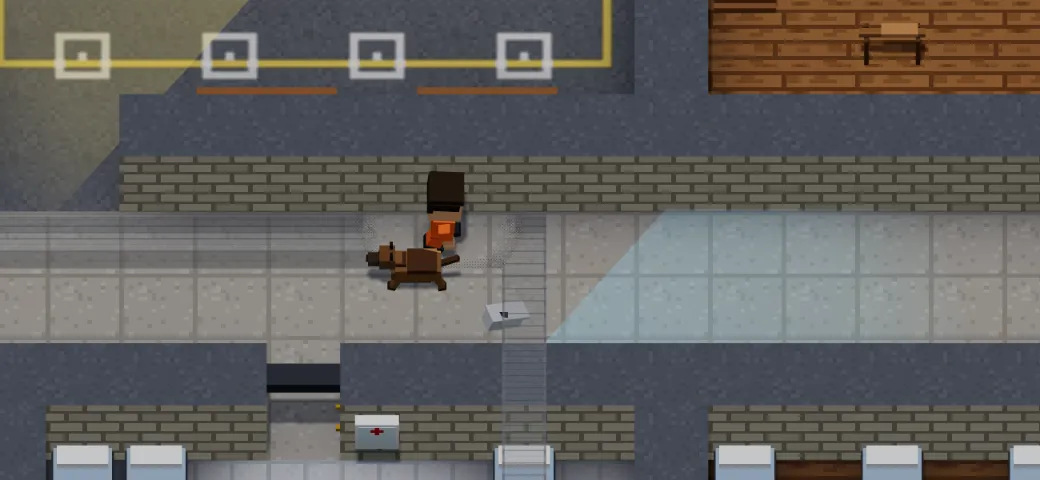
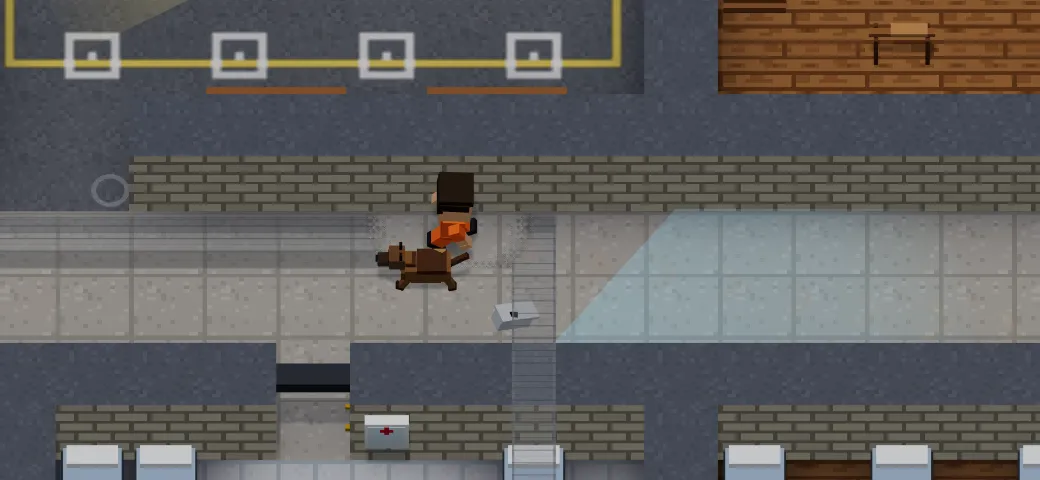
The picture review (session 14): every prison pictured by day, at night and in each weather at three sizes, a report of ten findings with their costs (docs/reviews/picture-review-2.36.md); Claude's picks done: moonlight at night (the ambient moon-blue, as bright as before), lamp pools to the dark ru

diff --git a/src/render/viewLight.ts b/src/render/viewLight.ts
@@ -19,12 +19,26 @@ const DAYLIGHT: Array<[number, number, number, number, number]> = [
 
 /** The ambient light's sky color. */
 const SKY_LIGHT = 0xdfe8ff;
+/** The ambient light's ground color (the bounce off the grass). */
+const GROUND_LIGHT = 0x4a5a3a;
+/**
+ * Moonlight (session 14, the picture review): at night the ambient's sky turns moon-blue and its bounce a
+ * dark slate, so the night reads as night (the grass no longer a dimmed noon green) and the warm lamp pools
+ * and the lit rooms stand out of it; MOON_LIFT keeps it about as bright as before, so nothing goes black.
+ */
+const MOON_SKY = 0xb8c8ff;
+const MOON_GROUND = 0x262c3c;
+const MOON_LIFT = 0.37;
+/** How much of the sun's shadow the rain's cloud takes away, a storm's more, the fog's (session 14). */
+const OVERCAST_SHADOW = 0.4;
+const STORM_SHADOW = 0.2;
+const FOG_SHADOW = 0.3;
 const ORIGIN = new THREE.Vector3(0, 0, 0);
 const UP = new THREE.Vector3(0, 1, 0);
 
 export class Lighting {
   readonly sun = new THREE.DirectionalLight(0xffffff, 2);
-  readonly ambient = new THREE.HemisphereLight(SKY_LIGHT, 0x4a5a3a, 1);
+  readonly ambient = new THREE.HemisphereLight(SKY_LIGHT, GROUND_LIGHT, 1);
   /** The scene's background. */
   readonly sky = new THREE.Color();
   /** 0 by day … 1 at night (the last frame's light). */
@@ -41,6 +55,8 @@ export class Lighting {
   private readonly c1 = new THREE.Color();
   private readonly c2 = new THREE.Color();
   private readonly red = new THREE.Color(0xff2a1a);
+  /** The ambient's sky color before the lockdown's red: day's, toward the moon's at night. */
+  private readonly skyLight = new THREE.Color();
   private readonly lightBasis = new THREE.Matrix4();
   private readonly lightInverse = new THREE.Matrix4();
   private readonly p = new THREE.Vector3();
@@ -74,14 +90,18 @@ export class Lighting {
    */
   update(minute: number, dt: number, time: number, layer: number, reducedMotion: boolean): number {
     const night = (this.night = this.daylight(minute));
+    // Moonlight: the ambient blue and its bounce dark as the night falls.
+    this.skyLight.set(SKY_LIGHT).lerp(this.c1.set(MOON_SKY), night);
+    this.ambient.groundColor.set(GROUND_LIGHT).lerp(this.c1.set(MOON_GROUND), night);
+    this.ambient.intensity *= 1 + MOON_LIFT * night;
     this.weatherLight(dt, reducedMotion);
     if (this.alarm > 0.001) {
       // Lockdown: the light swings red in slow pulses, like a rotating beacon.
       const a = this.alarmPulse(time, reducedMotion);
-      this.ambient.color.set(SKY_LIGHT).lerp(this.red, a);
+      this.ambient.color.copy(this.skyLight).lerp(this.red, a);
       this.sky.lerp(this.red, a * 0.35);
       this.sun.intensity *= 1 - 0.35 * this.alarm;
-    } else this.ambient.color.set(SKY_LIGHT);
+    } else this.ambient.color.copy(this.skyLight);
     // Off the ground floor: the vents dim the rooms below; the tunnels are dark but for the lantern.
     if (layer === LAYER.VENTS) {
       this.sun.intensity *= 0.22;
@@ -106,6 +126,7 @@ export class Lighting {
     this.sun.color.copy(this.c1.set(a[2]).lerp(this.c2.set(b[2]), f));
     this.ambient.intensity = THREE.MathUtils.lerp(a[3], b[3], f);
     this.sky.copy(this.c1.set(a[4]).lerp(this.c2.set(b[4]), f));
+    this.sun.shadow.intensity = 1;
     return THREE.MathUtils.clamp(1 - (this.sun.intensity - 0.3) / (2.3 - 0.3), 0, 1);
   }
 
@@ -137,9 +158,12 @@ export class Lighting {
       this.ambient.intensity *= 1 - Math.min(1, rain) * 0.14 - g.storm * 0.14;
       this.sky.lerp(this.c1.set(0x4a5462), g.grey);
       this.sun.color.lerp(this.c1.set(0xc6d2e2), g.grey * 0.6);
+      // (Session 14: under cloud the sun's shadows go soft and faint, not noon-crisp in the rain.)
+      this.sun.shadow.intensity -= Math.min(1, rain) * OVERCAST_SHADOW + g.storm * STORM_SHADOW;
     }
     if (g.fog > 0.002) {
       this.sun.intensity *= 1 - 0.25 * g.fog;
+      this.sun.shadow.intensity -= FOG_SHADOW * g.fog;
       this.sky.lerp(this.c1.set(0x9aa6b2), 0.6 * g.fog * (1 - this.night));
     }
     if (g.heat > 0.002) {

diff --git a/src/render/lights.ts b/src/render/lights.ts
@@ -1,5 +1,6 @@
 import * as THREE from 'three';
 import { CELL_BLOCK, OPEN_AIR } from '../content/zones';
+import { LAMP_LIT } from '../sim/tuning';
 import { TILE_INFO } from '../sim/world/tiles';
 import { MAP_W, type World } from '../sim/world/World';
 import { LAMP_BULB_Y, lampHeads } from './props';
@@ -25,6 +26,30 @@ function drawGlow(): THREE.CanvasTexture {
   c.fillStyle = g;
   c.fillRect(0, 0, n, n);
   return new THREE.CanvasTexture(canvas);
+}
+
+/**
+ * A lamp's pool (session 14, the picture review): evenly lit to the dark rule's reach and gone soon after
+ * (sim/ai/light.ts: a tile is lit within LAMP_LIT, 2.5 tiles, of the head), where the soft glow faded from
+ * the middle and showed no edge where a guard's sight stops. Drawn POOL tiles across: full to 0.55 of the
+ * radius, still most of it at 2.5 tiles (0.83), nothing at 3.
+ */
+const POOL = 6;
+let pool: THREE.CanvasTexture | null = null;
+function poolTexture(): THREE.CanvasTexture {
+  if (pool) return pool;
+  const n = 64;
+  const canvas = document.createElement('canvas');
+  canvas.width = canvas.height = n;
+  const c = canvas.getContext('2d')!;
+  const g = c.createRadialGradient(n / 2, n / 2, 0, n / 2, n / 2, n / 2);
+  g.addColorStop(0, 'rgba(255,255,255,1)');
+  g.addColorStop(0.55, 'rgba(255,255,255,0.86)');
+  g.addColorStop(LAMP_LIT / 100 / (POOL / 2), 'rgba(255,255,255,0.5)');
+  g.addColorStop(1, 'rgba(255,255,255,0)');
+  c.fillStyle = g;
+  c.fillRect(0, 0, n, n);
+  return (pool = new THREE.CanvasTexture(canvas));
 }
 
 /**
@@ -59,10 +84,10 @@ export class Lights {
     this.warm = this.addPools(
       lamps.map((p) => {
         const [h] = lampHeads(p.aim, 1);
-        return p.heads === 2 ? [p.x + 0.5, p.z + 0.5, 7.5] : [p.x + 0.5 + h.dx, p.z + 0.5 + h.dz, 7];
+        return p.heads === 2 ? [p.x + 0.5, p.z + 0.5, POOL] : [p.x + 0.5 + h.dx, p.z + 0.5 + h.dz, POOL];
       }),
       0xffb35c,
-      tex,
+      poolTexture(),
     );
 
     // Cool pools in every room, about one per 5×5 tiles, only on walkable indoor floor.

diff --git a/docs/reviews/picture-review-2.36.md b/docs/reviews/picture-review-2.36.md
@@ -1,0 +1,71 @@
+# Picture review of every prison (session 14, v2.36.0)
+
+Session 14 of the improvement queue (`BACKLOG.md` §4): day and night, materials, shadows and light,
+looked at as an art director would, then the clear wins fixed (as the street lamps were in 2.34.1).
+The user wasn't there to pick (their goal of 2026-11-07: the sessions run on their own), so Claude
+picked; the picks are below and in `POLISH.md`'s "Look and light" row.
+
+## How the pictures were taken
+
+The dev build, `scripts/dev/playat.ts`'s `at` and `put` (the model prisoner's day 1 played to the
+moment, the player set on a tile), the game held still and its canvas kept. The weather and the hour
+were forced on the frame the view draws (as `drawhash.ts` does), so the sim never moved.
+
+- **Where:** all five prisons and the Training Block: the cell at 07:50, the canteen or corridor at
+  12:10, the yard and the sports ground at noon, 06:30, 19:30 (dusk), 23:00 (the 2.35 dark), the cell
+  at 23:30 (Lights Out), and the yard in rain, fog, a heatwave, snow, a storm at night and fog at night;
+  the manhunt's outside of each prison at night and by day.
+- **Sizes:** desktop 1280×800, phone portrait 412×915 and landscape 915×412 (an Android profile).
+- **Kept** in the session's scratchpad, not the repository (about 130 pictures and contact sheets).
+
+## Findings
+
+Cost is per frame on the phone's tier (1024 shadow map): draw calls, triangles, frame time.
+
+| # | Prison, moment | What's wrong | Proposed fix | Cost | Picked |
+|---|---|---|---|---|---|
+| 1 | All, 21:00–05:00 | The night is noon dimmed: the ambient's sky stays day's white and its bounce grass-green, so the grass is a saturated green, and the warm pools barely stand out of it | Moonlight: the ambient's sky moon-blue and its bounce dark slate as the night falls, lifted to hold the same brightness (nothing goes black) | 0 calls, 0 tris, 0 ms (two colours) | **Yes** |
+| 2 | All, 21:00–05:00 | A lamp's pool is a soft glow: half strength at 1.2 tiles, a quarter at 2.5. The dark rule (2.35) lights every tile within 2.5 tiles of the head, so where a guard sees by lamplight never showed | The pool evenly lit to the rule's reach (half strength still at 2.5 tiles) and gone at 3, the same instanced mesh with its own texture | 0 calls, 0 tris, 0 ms | **Yes** |
+| 3 | All, rain, storm and fog by day | The sun's shadows stay noon-crisp under the cloud: a rainy day reads as a sunny one with streaks | The sun's shadow fades under cloud: 40% off in rain, 60% in a storm, 30% in fog (`shadow.intensity`) | 0 calls, 0 tris, 0 ms | **Yes** |
+| 4 | Stalag Flucht, all day | Snow-white wall tops on snow-white ground: the rooms read only by their floors and the brick strips; at night the lit canteen and gym look darker than the snow outside, where the dark rule calls them lit | Wall tops a step darker (stone with a snow speckle); the alpine room pools brighter | 0 | No: a look the user chose for the alpine prison; every Stalag photo and picture changes |
+| 5 | San Pancho, by day | The adobe wall tops are the yard's dirt colour, and orange jumpsuits stand on orange dirt: the yard's walls and people blend | A darker adobe cap or a paler yard; or a faint ring under the player, as the manhunt has | 0 (a ring: 1 call, 2 tris) | No: the theme's palette and a player marker are the user's to judge |
+| 6 | Center Perks, Shankton, Irongate, Training | The wall tops, the largest surface on screen, are one flat grey speckle with no edge: from this camera they read unfinished | A lighter rim along the caps' edges, or joints every few tiles | 0 calls, 0 tris | No: changes every map photo and help picture; a matter of taste for the user |
+| 7 | All, fog | The veil lies over open ground only, its mask a texel a tile: the wall tops stand crisp above a fog bank cut at the walls, like a highlighted box | Blur the mask when it's built (a 3×3 box), the fog thinning over a tile | 0 at run time | No: the fog keeping off roofs is meant (P17); low gain |
+| 8 | All, heatwave | The haze hardly shows (2% darker, a faint warm tint) | A stronger warm grade, a shimmer | 0 to 1 call | No: low gain |
+| 9 | Center Perks, San Pancho, Irongate | A lamp's pool reaches through walls: 2, 4 and 4 cell tiles (and 18, 13 and 13 room tiles) lie within 2.5 tiles of a lamp across a wall. The rule and the 3D agree (both light them), so a cell's floor glows warm from a lamp outside and counts lit after Lights Out | The rule's pool stopping at walls (a line test), behind `Sim.rules235`, and the 3D's pool clipped alike | 0 in the view; a sim rule | No: a sim rule of 2.35, not the render's; for the user |
+| 10 | All, by day, phone tier | A lamp's head casts its shadow on the grass, the 6 cm pole's shadow under a texel of the 1024 map: the head's shadow floats apart | None worth its cost (a thicker pole in the shadow pass only) | 1 call | No: minor |
+
+**Looked for and not found:** shadow acne or peter-panning at either tier, z-fighting (the pools sit
+over every floor at 0.008), popping, things floating or sunk, the map's edge (the camera never shows
+it), the sky against the fog (the fog's colour follows the sky). Dawn (06:30) and dusk (19:30) share
+one rose grade, which reads well; the manhunt's outsides read at night (the pale ring at the player's
+feet finds them).
+
+## What was done (the picks)
+
+- **Moonlight** (`render/viewLight.ts`): `MOON_SKY`, `MOON_GROUND` and `MOON_LIFT`; the lockdown's red
+  pulses over it as before. Mean brightness of the night pictures held: Center Perks' yard 38 → 41,
+  Stalag Flucht's 69 → 69, San Pancho's 50 → 51, Shankton's 43 → 44 (of 255).
+- **Pools to the rule's reach** (`render/lights.ts`): `poolTexture()`, `POOL` (6 tiles across), its
+  half-strength stop placed at `LAMP_LIT`. No lamp moved; `sim/ai/light.ts` untouched.
+- **Overcast shadows** (`render/viewLight.ts`): `OVERCAST_SHADOW`, `STORM_SHADOW`, `FOG_SHADOW`, eased
+  with the weather.
+
+## Proof
+
+- `drawhash.ts` (baseline taken on the old code, then twice the same): of 258 frames, the 102 that
+  changed are exactly the night and evening ones (18:40, 23:30, the manhunt's 23:40 and 06:30) and the
+  forced weather; every daytime frame, the title, the Intake's preview and the map viewer's picture are
+  byte-identical.
+- `perfprobe.ts`'s `check()` in the phone's profile: all 36 scenes within `perfbudget.json`.
+- The map viewer's photos (10:00, clear) are unchanged, the outsides' too (checked: no night, no weather
+  at 10:00): none retaken.
+- How to play's pictures with the new light, each retaken in its own frame and compared pixel by pixel
+  with the old: `night`, `towers`, `smuggling`, `talent`, `quiz`, `bluff` and `dogs`. Kept as they were:
+  `games`, `cheat`, `hoops` and `checkers` (9 to 14% into the evening, indoors: no visible change),
+  `layers` and `weather` (in the tunnels: under 2%), and `library`, `vending` and `menu` (rain on an
+  indoor scene, the shadows a little softer; the current camera no longer frames them as they were).
+- The browser: desktop, 412×915 and 915×412, by day, at night and in a storm; console clean. No text
+  changed.
+- `npm test`: 71 of 71, after one snapshot accepted: `budgettest` counts one more shared texture in every
+  prison (the pool's, made once and kept, as the glow's). The escape bots and `stealthtest` unchanged.

diff --git a/docs/POLISH.md b/docs/POLISH.md
@@ -10,6 +10,7 @@ and tested when it shipped, but no polish pass, so nothing is known either way.
 
 | Area | Version | State | The user's choices | Known limits |
 |---|---|---|---|---|
+| Look and light | 2.36.0 | Done | Claude's picks (the user's goal of 2026-11-07: the sessions run on their own), from the picture review of every prison ([`reviews/picture-review-2.36.md`](reviews/picture-review-2.36.md)): moonlight at night (the ambient's sky moon-blue, its bounce dark slate, as bright as before); a lamp's pool evenly lit to the dark rule's 2.5 tiles and gone at 3, so where a guard sees by lamplight shows; the sun's shadows fading under cloud (40% off in rain, 60% in a storm, 30% in fog). Left for the user: Stalag Flucht's snow wall tops, San Pancho's adobe on adobe, the grey wall caps' flat look, a lamp's pool lighting cells through a wall (a sim rule) | On snow (Stalag Flucht) the warm pools hardly show. Rooms are lit whole by the rule where the 3D draws pools. How to play's `library`, `vending` and `menu` keep their old rain light (the camera no longer frames them as taken). Not seen on a real phone |
 | Fights | 2.35.0 | Done | The user's picks (2026-11-06): whoever hits the player is locked on at once (Claude's change after the review: an inmate only, a guard's baton in a chase would have turned the next Space at the fence into a blow at the guard and the lockdown); the fight shown (the target's health over their head, a white flash on each blow; the jolt back was there already); a block on its own key. Claude's picks: V for the block (free, beside C and F), the shield button left of the lock-on while a fight is on; held, a person's blow does half, rounded up, at half the walking pace, with no blow of one's own; a guard hit is sure at once who did it; the fight lesson gains two steps (a blow, then a blow of his blocked) | The auto-lock takes Space from a tool while it holds: hit by an inmate while chipping, the next Space is a blow (R lets go, or 7 tiles away). Inmates and guards never block. The health bar over a head can sit over a guard's "?". Not played by hand on a real phone (touch simulated); sounds not heard; French not read by a native speaker |
 | Stealth and heat | 2.35.0 | Done | The user's picks (2026-11-06): a guard takes a moment to notice (a "?" fills; out of its sight first and it only comes to look); the dark hides the player; lying low cools heat faster. Claude's picks: 0.3 s close up to 1.5 s at the edge of sight, for a blow at someone calm, tools at work, out late and staff rooms (damage found, cameras, searchlights and contraband as they were); a blow or a strike noticeable for 1 s; dark from 21:00 to 05:00 (the hours drawn dark, not only Lights Out), 4 tiles of sight off lit tiles, a lamp's pool 2.5 tiles round, rooms lit indoors only, nothing in a power cut; lying low twice as fast in the block's zones, in a guard's sight too, never under a camera; a down arrow by the heat says so | The cones are cut ray by ray where the dark stops a guard, so a lit patch beyond a dark gap isn't drawn (nor seen). Room light is the whole room, where the 3D draws pools. Night chases are easier to shake off. Not played by hand on a real phone; sounds not heard; French not read by a native speaker |
 | The menu board and the water cooler | 2.33.0 | Done | Both were decoration; now they work. Dishes that really differ: each meal's tray is the day's dish, with its own energy, some with health (breakfast: porridge 35, eggs 40, pancakes 45, cereal 25 +10 health, beans 30 +5; dinner: stew 35, meatloaf 45, fish 30 +10, soup 20 +25, pasta 40, mystery meat 15, and each prison's own: burger, sausage, meatballs, tacos, pie), the board read with the action button: today's two, what each gives, tomorrow's. Scribble on it: once a day, for a laugh; inmates who see it laugh and like you more; a guard who sees it tells you off. The cooler: a cup gives a little energy, every half hour, and cools a heatwave at once. Inmates use the cooler, and standing by while two are at it the player overhears a true rumour. Claude's picks: the first day serves the plain +35 tray (every run's opening as it was), never the same dish two days running, a feast beats any dish; on average a tray gives about what it did (34.8 at breakfast, about 32.5 and a little health at dinner); 2 s to scribble, standing still, +10% heat if seen (never into a chase), not finished then; +2 opinion a laugh, once a day each, within 5 tiles in sight; wiped every morning; key X (S walks); +5 energy a cup, 30 game minutes between; refused at full energy unless hot, and with a tray in both hands; the cooler solid from 2.33 (walk-through decoration in older runs); inmates come for a drink from day 2, two places beside it, at three rushes in the free times (none at the Training Block, whose lessons ask for inmates by name); gossip within 3 tiles, once a visit (walk 6 tiles off for another), 3 a day; inmates comment on a good or bad dish at the counter; the board in 3D tipped forward so the camera can read it; Stalag Flucht's cooler a tile into the corner (its decor stood on a guard's stop), turned to the room there and at Shankton | The solid cooler moves the day-1 crowd a little, so the escape bots' snapshot moved (36 lines; with a walk-through cooler it doesn't move at all): Irongate's takeover out a minute later. Inmates buy about a tenth less from the vending machine, those at the cooler skipping their turn. Irongate's cooler stands just inside the canteen's south door, one drink place in its lane in free time: meals measured unchanged, and over 60 seeds Irongate's bluff and takeover won as often as in 2.32 (58 and 42; 57 and 42 with it in the far corner, tried). Center Perks sees two at the cooler less than once a day (other prisons 2 to 3), so overhearing there takes patience. The board in 3D shows energy only (the card shows health too); the player standing in front of it hides part of it behind the see-through cut. Not played by hand on a real phone (touch simulated); sounds not heard; French not read by a native speaker |

diff --git a/docs/phases/8-polish.md b/docs/phases/8-polish.md
@@ -17,6 +17,7 @@ A finished roadmap, kept as it was planned and built: its rows from `PLAN.md` §
 | **The checkpoint's booth** | 2.33.2 | Center Perks' booth off the road, inside the wire east of the drive, its hatch to the window (it stood in the street: the road runs round the whole prison); every booth solid (`World.plainBooth`, `Sim.rules2331` for older logs); `getawaytest` (in the way for everyone, cuts no ground off the way out, stops a player walking into it, older logs walk through it). Accepted changes: `simtest`'s and `itemtest`'s state hashes only, as the hash covers the walkable map (the state itself identical, measured; with the booth walkable the old hashes come back); every bot snapshot unchanged. `menutest` and `vendingtest` compare older runs with the map as it was, the booth walked through too. |
 | **Reading made playable** | 2.34 | The library's reading at half the speed, the marker waiting at each lit key word with the time left under it, a press anywhere counting while it's lit, key phrases kept on one line; the texts (lesson, hint under a new id, How to play, the card) in both languages; `Sim.rules233` (and the booth's flag renamed `rules2331`, as `polishtest` reads `rulesNN` as "a run from 2.NN or before"); `librarytest` (slow readers 0.5–4 s, blind presses, the wait's edges, the old rules). Accepted changes: `simtest`'s and `itemtest`'s state hashes, by the new `readWait` field alone (measured: without it the old hash comes back); `replaytest`'s save 13 characters longer (`,"readWait":0`); `librarytest`'s set times (6 s to 9–10 s from the shelf); `tutorialtest`'s library lesson done at 10:21 rather than 10:18; `helptest`'s word count; every escape bot unchanged. |
 | **Street lamps** | 2.34.1 | Each lamp's arm leans over what it lights rather than all south: a perimeter strip's fence, a drive or path beside it, a yard or ground from its corner (diagonally), two heads for the one in the open (Stalag Flucht's crossroads); `PropPlacement.aim` (eighths, `AIM`) and `heads`, drawing only; the model, bulbs and night pools, the map viewer and its photos, How to play's seven pictures with a lamp; `lampstest`. Accepted changes: none (every snapshot unchanged, the rules never read the aim) |
+| **Look and light** | 2.36 | The picture review of every prison (`docs/reviews/picture-review-2.36.md`): moonlight at night, lamp pools to the dark rule's 2.5 tiles, the sun's shadows fading under cloud; How to play's night, towers, smuggling, talent, quiz, bluff and dogs pictures retaken. Accepted changes: `budgettest` one more shared texture in every prison (the pool's, made once and kept, as the glow's; calls and what's freed as before); `polishtest` the new area; the escape bots unchanged (render only); `drawhash`'s night, evening and weather frames (102 of 258), its daytime ones byte-identical; `perfprobe` in budget |
 | **Fights, stealth and heat** | 2.35 | A guard's moment to be sure (`Guard.notice`, the "?" filling, the orange cone, going to look), the dark (`ai/light.ts`, the cones cut alike), lying low (twice as fast, the heat's arrow), the block (`EXT.BLOCK`, V, the shield button), a blow locking on, the target's health over their head and a flash; How to play's Heat, Fighting and Controls pages, the fight lesson's two new steps; `stealthtest`. Accepted changes: the escape bots' Shankton takeover out at 09:11 and Irongate's helicopter at 23:52 (both still out; a punch seen far off no longer sure, the helipad's in the dark unseen), the Dailies' and holidays' runs of the same; `guardtest`'s night walk seen at 00:03 (00:01); `paroletest`'s plotter voided at 23:26; `showerstest`'s heat off while washing doubled (lying low); `tutorialtest`'s fight lesson 4 steps and the bribe lesson's heat cooled by 13:24; the state hashes (`simtest`, `itemtest`) and a save 16 characters longer (`replaytest`) for the new fields; `keystest` 20 actions; `polishtest` the flag |
 | **Jobs and the Work Period** | 2.30 | Arrows, a marker and a HUD line for the next step; machines that run (`render/WorkGear.ts`) and bins showing what's in them; inmates working their stations, carrying the work; warnings while the quota can be met; guards minding strangers in work rooms; the help page and picture |
 | **Exercise and training** | 2.29 | Sets in time with a beat, each machine at its own pace; inmates on the machines, who give way when asked; the punching bag and the mat working in every gym; lying on the bench with a real bar; How to play's page and picture, the lesson's words; `exercisetest`. Accepted changes: every bot snapshot moved only by minutes, from the crowd now standing elsewhere (`escapetest`, `economytest`, `guardtest`, `routinetest`, `nighttest`, `rollcalltest`, `showerstest`, `dailytest`, `paroletest`, `holidaytest`, `holidayruntest`, `holidaybotstest`, `calendartest`, `stagetest`, `traittest`, `achievementtest`, `gossiptest`, `replaytest`, `simtest`, `itemtest`, `tutorialtest`), checked old against new over 24 seeds of all 33 routes (760 wins, then 765, none fewer, medians the same); two thresholds set from measurement: `showerstest`'s two under one head 20 to 35 steps (24 seeds: up to 29 before, 30 now) and `chattertest`'s distinct lines 85% to 80% (8 seeds: worst 86–93% before, 84–92% now, the average the same). The rules are in §2's Exercise row. |

diff --git a/docs/history/v2.30-v2.39.md b/docs/history/v2.30-v2.39.md
@@ -470,3 +470,16 @@ Every release in this range, in order: what changed, what the reviews found and 
     at once; a night guard blind 6 tiles off in the dark, seeing 3 off and 6 along a lamp; the cones'
     rays and the rule agreeing at over 10,000 points; lying low twice as fast in a guard's sight; the
     block and the lock. Tests that wanted the alarm in the same step now give the guard its moment.
+- **The picture review (v2.36.0, not released yet)**, session 14 of the queue (`BACKLOG.md` §4), the
+  user's goal (2026-11-07: "complete sessions from 12 to 16 … well polished").
+  - **Choices:** see `POLISH.md`'s Look and light row; the report, ten findings with their costs, is
+    [`reviews/picture-review-2.36.md`](../reviews/picture-review-2.36.md).
+  - **Built:** moonlight (`viewLight.ts`'s `MOON_SKY`, `MOON_GROUND`, `MOON_LIFT`); lamp pools to the
+    dark rule's reach (`lights.ts`'s `poolTexture`, `POOL`, `LAMP_LIT`); shadows fading under cloud
+    (`OVERCAST_SHADOW`, `STORM_SHADOW`, `FOG_SHADOW`). No lamp moved, nothing in the sim.
+  - **Proved:** `drawhash` changed only its night, evening and weather frames (102 of 258); `perfprobe`'s
+    36 scenes in budget on the phone's profile; How to play's night, towers, smuggling, talent, quiz,
+    bluff and dogs retaken, each in its own frame; the map photos unchanged.
+  - **Found:** lamps light 10 cell tiles through walls in three prisons, the rule and the 3D alike.
+  - **Accepted:** the warm pools faint on snow; four findings left for the user (the report).
+  - **Not checked:** a real phone; the screens' text (none changed).

diff --git a/docs/BACKLOG.md b/docs/BACKLOG.md
@@ -68,14 +68,13 @@ fixes, and polished systems before the feature built on them; the user may reord
 starts by asking the user's choices, and ends with its history entry; take it off here when done
 (the numbers stay: 1, lint and types, 2, the action button's test, 3, the giant modules split, and
 4, the faster first load, were done in v2.34.2; 5, the phone performance pass, 6, hitches and memory,
-7, the design tokens, 8, the screen sizes, and 9, the accessibility options, and 11, fights, stealth and heat, in v2.35.0; 9's colour-blind palette was
+7, the design tokens, 8, the screen sizes, and 9, the accessibility options, and 11, fights, stealth and heat, in v2.35.0; 14, the picture review, in v2.36.0; 9's colour-blind palette was
 left out by the user; 10, gamepad support, was moved to §3 by the user).
 
 | # | Session | Why now, what it found |
 |---|---|---|
 | 12 | Tools, digging, items, looting | §1: tools, digging, vents and roofs; items and crafting; searching and looting |
 | 13 | Talk, merchants, crew | §1: talking, favours and opinion; merchants and money; the crew |
-| 14 | Picture review of every prison | Day and night, materials, shadows, light: a report first, then the fixes picked (as the lamps) |
 | 15 | Character animation polish | Blends between poses, idle and walk variety, hands and what they hold |
 | 16 | Gangs and turf | §3; built on 11 and 13 (fights, opinion, merchants, the crew) once they're polished |
 

diff --git a/docs/README.md b/docs/README.md
@@ -11,6 +11,7 @@ record. Nothing was rewritten: rows and entries moved word for word.
 | What a polish pass already did to an area, the user's choices, its known limits | [`POLISH.md`](POLISH.md) |
 | What one release changed, what its reviews found | [`HISTORY.md`](HISTORY.md), one line per release, then its range's file in [`history/`](history/) |
 | How a phase was planned and proved (P0–P42, the polish series) | [`phases/`](phases/), one file per roadmap (the list is in `PLAN.md` §4) |
+| A review of the game's pictures or another part, with its findings and what was picked | [`reviews/`](reviews/) (`picture-review-2.36.md`: day and night, materials, light) |
 | What's open: areas not polished yet, checks only a person can do, parked ideas, the improvement queue (sessions picked by the user, in order) | [`BACKLOG.md`](BACKLOG.md) |
 | How the code is checked: types, lint, layout, the tests | [`PLAN.md`](PLAN.md) §6, [`.oxlintrc.json`](../.oxlintrc.json) (each rule turned off, why) |
 | What the game has, for players | [`FEATURES.md`](FEATURES.md) |

diff --git a/docs/HISTORY.md b/docs/HISTORY.md
@@ -175,3 +175,4 @@ Every release, in order, one line each; the full entry (what changed, what the r
 - The screen sizes (v2.35.0, not released yet)
 - The accessibility options (v2.35.0, not released yet)
 - Fights, stealth and heat (v2.35.0, not released yet)
+- The picture review (v2.36.0, not released yet)
